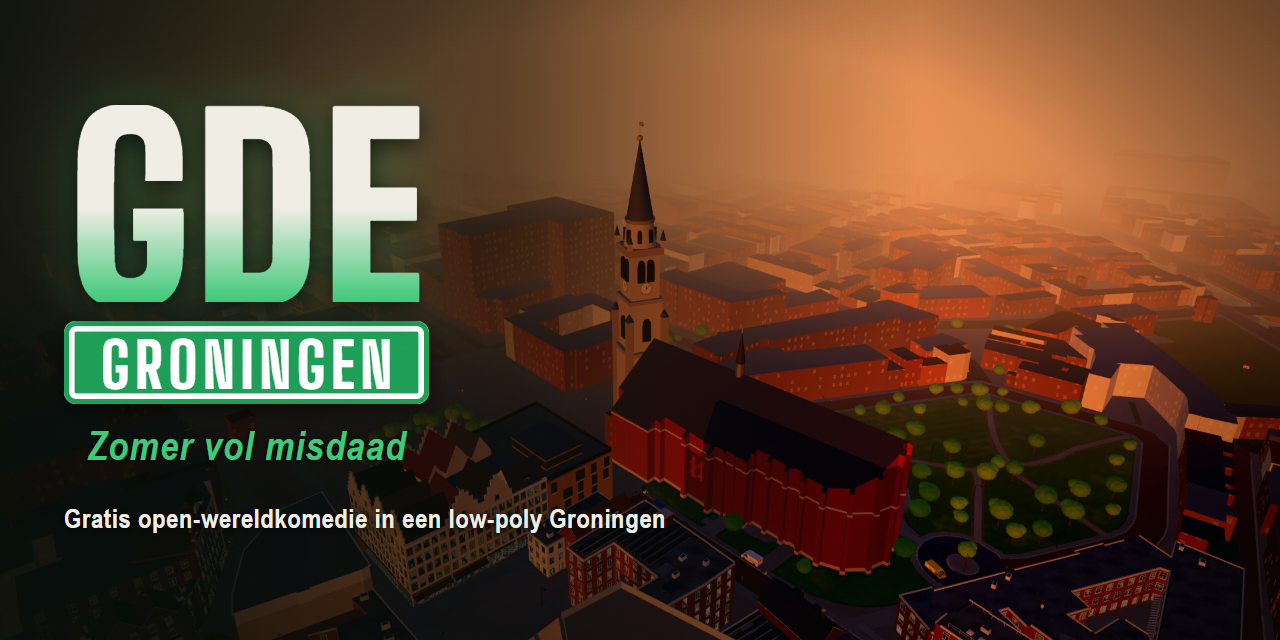
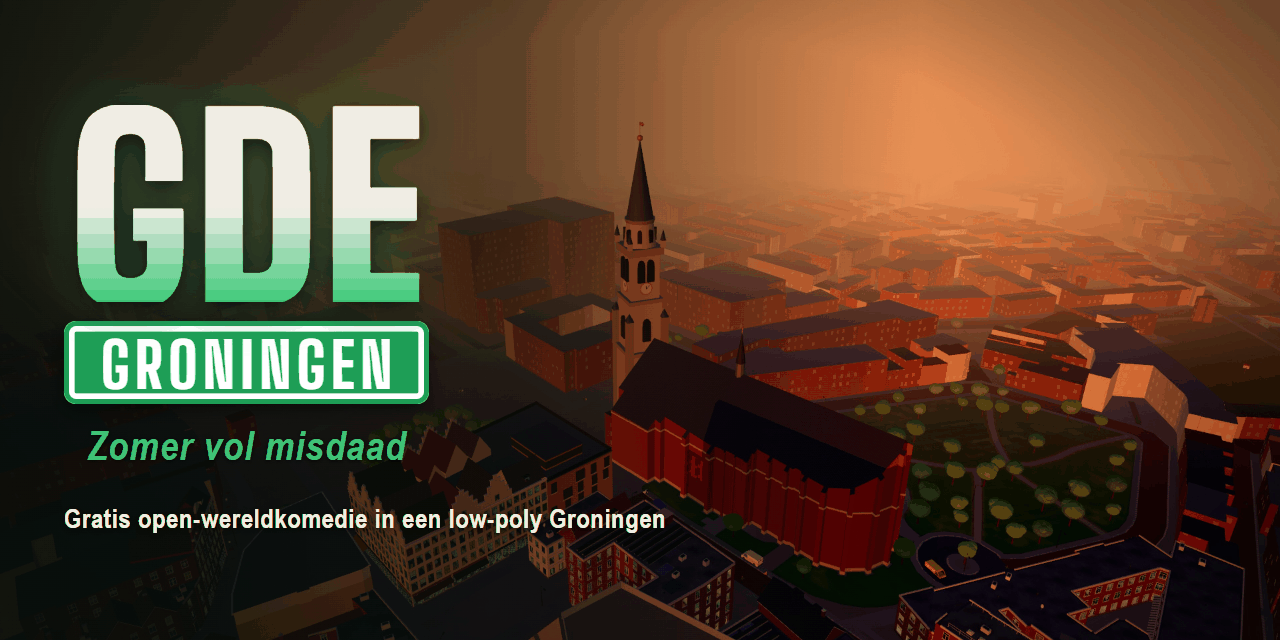
Website ronde 3: social-preview gecomprimeerd en deploy opgeschoond
Het social-preview-beeld is van 786 naar 201 kB gebracht (zelfde 1280x640). Build kopieert alleen nog de responsive varianten die de pagina laadt: _site gaat van 7,14 naar 2,63 MB en 124 naar 89 bestanden. Cardcopy ontdaan van dubbele cijfers (Echte gebouwen, Geen winter).

diff --git a/website/index.html b/website/index.html
@@ -171,8 +171,8 @@
         <p class="section-lead">Geen verzonnen stad: de straten, pleinen en gebouwen zijn opgebouwd uit echte kaartdata, van de Grote Markt tot het laatste dorp in het Ommeland.</p>
         <ul class="card-grid">
           <li class="card">
-            <h3>50.000+ gebouwen</h3>
-            <p>De stad is opgebouwd uit echte gebouwen en straten uit OpenStreetMap: de Grote Markt, de grachten, de ringweg en de wijken eromheen.</p>
+            <h3>Echte gebouwen</h3>
+            <p>De stad is opgebouwd uit duizenden gebouwen en straten uit OpenStreetMap: de Grote Markt, de grachten, de ringweg en de wijken eromheen.</p>
           </li>
           <li class="card">
             <h3>De Martinitoren</h3>
@@ -187,7 +187,7 @@
             <p>Echte dorpen, wegen, kanalen, akkers en de Waddenzee in het noorden. De provincie is net zo echt als de stad.</p>
           </li>
           <li class="card">
-            <h3>Altijd zomer</h3>
+            <h3>Geen winter</h3>
             <p>Geen sneeuw, geen ijs, geen winter: het is altijd zomer, ook als je om drie uur 's nachts over de Grote Markt loopt.</p>
           </li>
           <li class="card">
